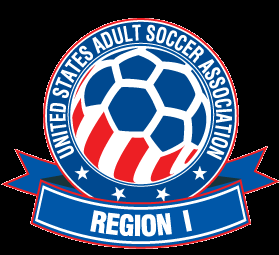
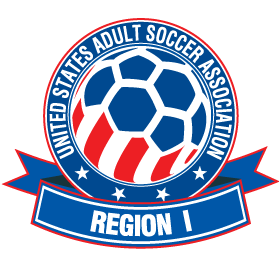
Cup roster sheet: pixel-matched to the EPSA/USASA PDF (owner: "exactly the same as the template?")
Compared field-by-field and by pixel sampling against the original
EPSA-and-USASA-TEAM-PLAYER-POOL-2025-2026.pdf; all fields were present,
but the styling drifted:

- USASA Region I badge drew on a black box — pdfimages had dropped the
  PDF's smask; re-extracted with the alpha mask, PNG now transparent
- players banding was inverted: the form shades data cells on rows
  1,3,5… and the number column on 2,4,6… (black regular digits, not
  blue bold); row rules are #4f81bd with black verticals and a 2px
  black line under the header
- SELECT COMPETITION/STATE, PRIMARY/ALTERNATE and Name: cells are white
  with #366092 text, not shaded; bar #244062, shade #dce6f1, header
  text #366092, header-table borders #244062 (all sampled from the PDF)

The one deliberate difference stays: the template's page 2 (just the
Name: line, an Excel print spill) folds onto our single page.

diff --git a/frontend/js/screens/cup-rosters.js b/frontend/js/screens/cup-rosters.js
@@ -57,19 +57,27 @@ class CupRostersScreen extends Screen {
         /* ── the sheet: 8.5×11 in, drawn to the form ───────────────────── */
         .cr-sheet { position:relative; width:612pt; height:792pt; background:#fff; color:#111; font-family: "Century Gothic", "Trebuchet MS", Arial, sans-serif; box-shadow:0 4px 20px rgba(0,0,0,0.35); box-sizing:border-box; padding:38pt 36pt 0 36pt; font-size:8.5pt; }
         .cr-sheet * { box-sizing:border-box; }
+        /* Colors sampled from the EPSA/USASA PDF itself: bar #244062, label
+           text #366092, cell shade #dce6f1, players row rules #4f81bd. */
         .cr-sheet .type { text-align:center; font-weight:800; font-size:8.5pt; margin-bottom:3pt; }
-        .cr-sheet .cr-bar { background:#1f3864; color:#fff; text-align:center; font-weight:800; font-size:14pt; padding:3pt 0; }
+        .cr-sheet .cr-bar { background:#244062; color:#fff; text-align:center; font-weight:800; font-size:14pt; padding:3pt 0; }
         .cr-sheet table { border-collapse:collapse; width:100%; table-layout:fixed; }
-        .cr-sheet td, .cr-sheet th { border:1px solid #333; padding:1.5pt 3pt; height:13pt; vertical-align:middle; font-size:8.5pt; overflow:hidden; white-space:nowrap; }
-        .cr-sheet th { background:#dbe5f1; color:#1f3864; text-align:left; font-weight:800; }
+        .cr-sheet td, .cr-sheet th { border:1px solid #244062; padding:1.5pt 3pt; height:13pt; vertical-align:middle; font-size:8.5pt; overflow:hidden; white-space:nowrap; }
+        .cr-sheet th { background:#dce6f1; color:#366092; text-align:left; font-weight:800; }
         .cr-sheet th.c { text-align:center; }
-        .cr-sheet td.lab { background:#dbe5f1; color:#1f3864; font-weight:700; }
+        .cr-sheet td.lab { background:#fff; color:#366092; font-weight:700; }
         .cr-sheet .gap { height:9pt; }
         .cr-sheet .players { width:400pt; }
-        .cr-sheet .players th { text-align:center; height:26pt; white-space:normal; line-height:1.1; }
-        .cr-sheet .players td.n { width:14pt; text-align:center; background:#dbe5f1; color:#1f3864; font-weight:700; }
-        .cr-sheet .players tr.alt td { background:#dbe5f1; }
-        .cr-sheet .players tr.alt td.n { background:#dbe5f1; }
+        .cr-sheet .players td, .cr-sheet .players th { border-color:#000; }
+        .cr-sheet .players td { border-top-color:#4f81bd; border-bottom-color:#4f81bd; }
+        .cr-sheet .players tr:last-child td { border-bottom-color:#000; }
+        .cr-sheet .players th { text-align:center; height:26pt; white-space:normal; line-height:1.1; border-bottom:2px solid #000; }
+        /* Banding as the form has it: data cells shade rows 1,3,5…; the
+           number column shades 2,4,6… (its .ns cells) and stays black text. */
+        .cr-sheet .players td.n { width:14pt; text-align:center; background:#fff; color:#000; font-weight:400; }
+        .cr-sheet .players td.n.ns { background:#dce6f1; }
+        .cr-sheet .players tr.alt td { background:#dce6f1; }
+        .cr-sheet .players tr.alt td.n { background:#fff; }
         .cr-sheet .logo { position:absolute; right:40pt; top:262pt; width:110pt; }
         .cr-sheet .count { margin-top:9pt; display:flex; gap:6pt; align-items:flex-start; }
         .cr-sheet .count table { width:130pt; }
@@ -270,7 +278,7 @@ class CupRostersScreen extends Screen {
     const rows = [];
     for (let i = 0; i < max; i++) {
       const p = players[i] || {};
-      rows.push(`<tr class="${i % 2 ? 'alt' : ''}"><td class="n">${i + 1}</td><td>${esc(p.last_name)}</td><td>${esc(p.first_name)}</td><td style="text-align:center;">${esc(p.dob)}</td></tr>`);
+      rows.push(`<tr class="${i % 2 ? '' : 'alt'}"><td class="n${i % 2 ? ' ns' : ''}">${i + 1}</td><td>${esc(p.last_name)}</td><td>${esc(p.first_name)}</td><td style="text-align:center;">${esc(p.dob)}</td></tr>`);
     }
     const v = (k) => esc(s ? s[k] : '');
     return `<div class="cr-sheet">
@@ -298,7 +306,7 @@ class CupRostersScreen extends Screen {
         <tr><th style="background:#fff; border:none;"></th><th class="c">Player's<br>Last Name</th><th class="c">Player's<br>First Name</th><th class="c">DOB<br>m/d/y</th></tr>
         ${rows.join('')}
       </table>
-      <img class="logo" src="/images/usasa-region1.png" alt="">
+      <img class="logo" src="/images/usasa-region1.png?v=2" alt="">
       <div class="count">
         <table><tr><th>PLAYER COUNT</th></tr><tr><td style="font-weight:700;">${players.length}</td></tr></table>
         <div class="note">${esc(this._t('sheet_pool', 'Pool is set at {max}.', { max }))}<br>${esc(this._t('sheet_pool2', 'No more additions allowed after {max} is reached.', { max }))}</div>

diff --git a/frontend/cup-roster.html b/frontend/cup-roster.html
@@ -39,7 +39,7 @@
     window.MessageCopy = MessageCopy;
   </script>
   <script src="/js/screen-base.js"></script>
-  <script src="/js/screens/cup-rosters.js?v=20261009b"></script>
+  <script src="/js/screens/cup-rosters.js?v=20261011"></script>>
   <script>
     (async () => {
       const k = new URLSearchParams(location.search).get('k') || '';
